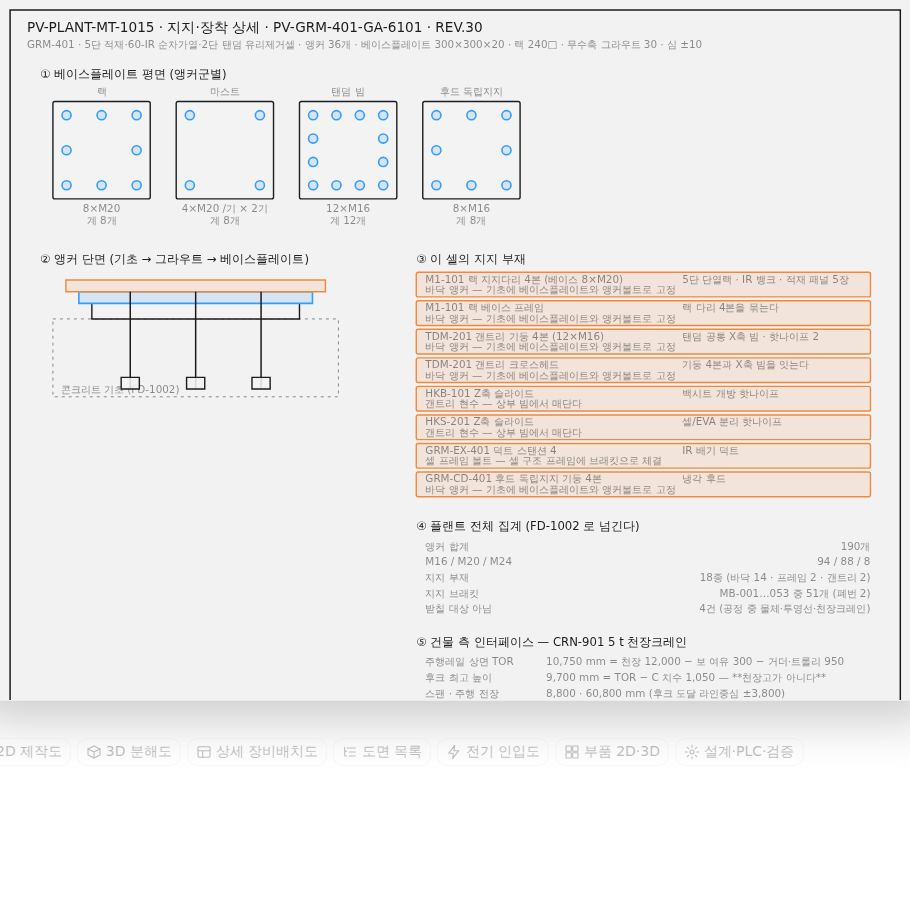
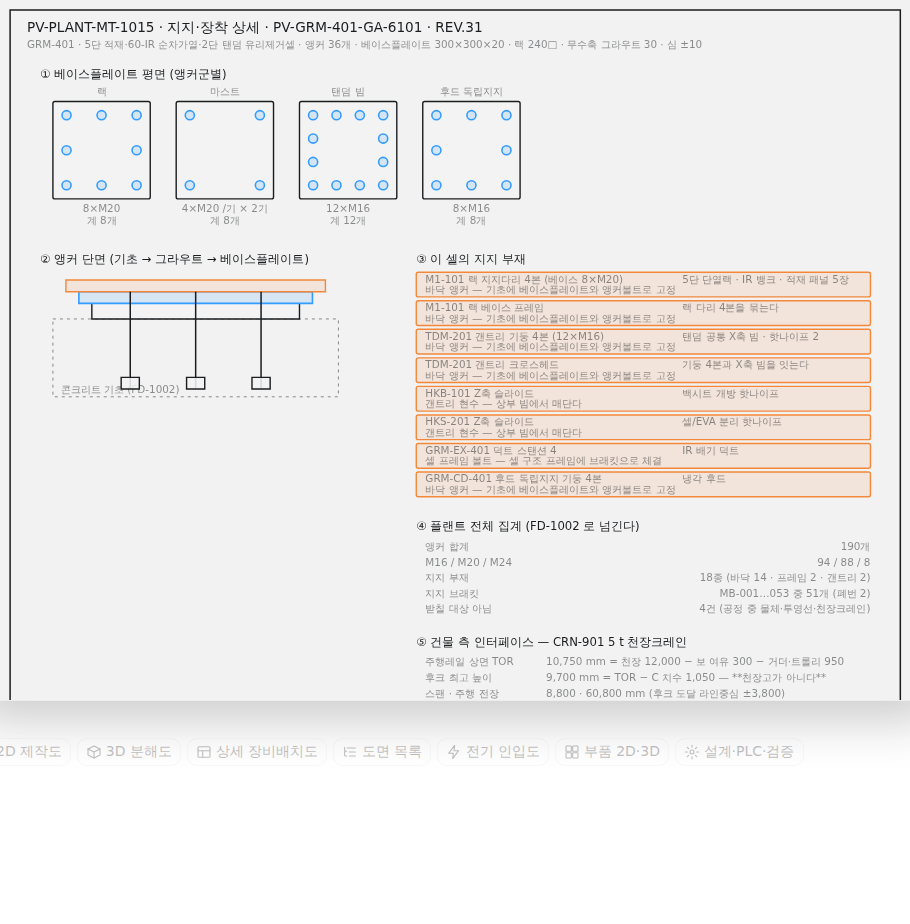
출입구가 투입방향임을 확인받는다 (REV.31)
발주처 확인 — **출입구는 투입방향(상류 AFU)이고 건축이 이미 그렇게 설계돼
있다.** REV.30 에서 미루어 잡았던 값이 맞았다.

추정이 맞았지만 **추정이었다는 사실**을 남긴다. 설치 순서 전체가 이 한
값에서 나오기 때문이다 — 문이 반대쪽이면 순서도 통째로 뒤집히고,
`install_order(entry_zone=…)` 이 실제로 그렇게 동작한다. 근거도 바뀐다:
전에는 `mounting.MOUNTING_OF["afu"]` 의 "지게차 진입측" 에서 미룬 것이었고,
이제는 건축 설계가 근거다.

도면목록의 `PV-PLANT-GA-1001` 확인 항목에서 출입구를 뺐다 — 남은 것은
건축 grid·기둥이다.

**반입 개구 하한을 내보낸다.** `entry_opening_min_mm()` = (2,900, 5,150).
치수를 정하는 값이 아니라 하한이고, 도면에도 그렇게 적는다 — 높이를 정하는
VG-101 은 보 3.8 m + 독립 기둥 2본이라 통짜로 올 물건이 아니다. 무엇이
통짜로 오고 무엇이 안에서 조립되는지는 분할 반입 계획이고 그것은 벤더
몫이라 여기서 정하지 않는다. "통짜로 온다면 이만큼은 필요하다" 만 낸다.

장착 시트 ⑤ 에 출입구 확인 표시와 개구 하한 행을 넣었다. 시트가 세로로
1,398 → 1,422 로 자라고 가로는 규약 1,400 을 유지한다 — 캡션 y 는 REV.30
에서 행 수 파생으로 고쳐 놨으므로 이번엔 저절로 따라왔다.

시험 592건 · 장착 8셀 글자 겹침 0 · 시트 밖 0 · 페이지 오류 0.

Claude-Session: https://claude.ai/code/session_01RvzXZyrs9FVy575zddpnPN

diff --git a/docs/drawings/pv-preprocess-plant.html b/docs/drawings/pv-preprocess-plant.html
@@ -2868,7 +2868,7 @@ html>body{padding:0}</style>
   };
 
   var register = [
-    ['PV-PLANT-GA-1001', '전체 플랜트 평면·종단면·좌표표', '2D GA', '앱 반영', '건축 grid·기둥·출입구'],
+    ['PV-PLANT-GA-1001', '전체 플랜트 평면·종단면·좌표표', '2D GA', '앱 반영', '건축 grid·기둥 (출입구는 투입방향 확정)'],
     ['PV-PLANT-FD-1002', '기초·앵커·바닥하중', '2D 기초', '기본설계', 'slab·pull-out·동하중'],
     ['PV-PLANT-UT-1003', '전기·공압·진공·집진', '2D Utility', '기본설계', '인입점·압손·차단기'],
     ['PV-PLANT-SF-1004', '가드·문·정지포락선', '2D Safety', '기본설계', 'PLr·PFHd·정지시간'],
@@ -2965,7 +2965,7 @@ html>body{padding:0}</style>
     return [left, top, width, height].map(Math.round).join(' ');
   }
 
-  var DRAWING_REVISION = 'REV.30';
+  var DRAWING_REVISION = 'REV.31';
   // 뷰별 축 선택. PART_AXIS 는 part.at/part.size 의 [X, 상하, 깊이] 기준,
   // ENVELOPE_AXIS 는 station.envelope 의 [L, W, H] 기준 — 두 배열의 축 순서가 다르다.
   var PART_AXIS = { plan: [0, 2], front: [0, 1], side: [2, 1] };
@@ -3705,7 +3705,7 @@ html>body{padding:0}</style>
     ['VS-101A/B-FUSED 고정면 스캔선', '레이저 투영선이라 물체가 아니다']
   ];
   var KINEMATICS = {panelMm: [2500, 1400], flipAxisMm: 3430, transferMm: 2290, ringBoreMm: 1620, ringBottomMm: 2440, underRingMm: 112, overCarriageMm: 116, boreClearMm: 109, cageAxialMm: 40, jawStrokeMm: 187.5, jawOpenClearMm: 70, afrClampKn: 12.0, afrPortalZMm: 1450, afrPortalAnchors: 16};
-  var CRANE = {capacityT: 5.0, ceilingMm: 12000, railTopMm: 10750, hookHeightMm: 9700, spanMm: 8800, runwayMm: 60800, hookReachMm: 3800, governing: "BFC 반전 카세트 (Bay 1식)", governingKg: 2500, hookLoadKg: 2650, maxLiftKg: 4850, capacityMargin: 1.89, tallest: "VG-101 독립 방진 비전보 조립체", requiredHookMm: 8370, hookMarginMm: 1330, installOrder: ["grm", "buffer", "post", "afr", "gate", "jbr", "robot", "afu"], entryZone: "afu", haulWidthMm: 7100, widestModuleMm: 2900, installedKw: 6.7, demandKw: 1.34};
+  var CRANE = {capacityT: 5.0, ceilingMm: 12000, railTopMm: 10750, hookHeightMm: 9700, spanMm: 8800, runwayMm: 60800, hookReachMm: 3800, governing: "BFC 반전 카세트 (Bay 1식)", governingKg: 2500, hookLoadKg: 2650, maxLiftKg: 4850, capacityMargin: 1.89, tallest: "VG-101 독립 방진 비전보 조립체", requiredHookMm: 8370, hookMarginMm: 1330, installOrder: ["grm", "buffer", "post", "afr", "gate", "jbr", "robot", "afu"], entryZone: "afu", haulWidthMm: 7100, widestModuleMm: 2900, entryOpeningMinMm: [2900, 5150], installedKw: 6.7, demandKw: 1.34};
   var MOUNT_SUMMARY = { stations: 8, anchors: 190, m16: 94, m20: 88, m24: 8, members: 18, brackets: 51, series: 53, withdrawn: 2, floor: 14, frame: 2, gantry: 2, exempt: 4 };
   var SL_CHAIN_ROWS = INCOMER.tapsSite ? (INCOMER.tapLowVoltage ? 4 : 5) : (INCOMER.highVoltage ? 6 : 4);
   // 분기 주회로 길이는 부지 실측 대기다. 모를 때 0.0 m 로 찍으면 도면이 거짓말을 한다.
@@ -4743,8 +4743,12 @@ html>body{padding:0}</style>
      // 그만큼 길이 사라지므로 문에서 먼 쪽부터 소비한다.
      ['반입 동선', '장비 밴드 ' + n(CRANE.haulWidthMm) + ' (최대 모듈 ' + n(CRANE.widestModuleMm)
        + ') — 통로 유효 ' + n(AISLE_CLEAR_MM) + ' 로는 못 지난다'],
-     ['설치 순서', CRANE.installOrder.join(' → ') + '  (공정 흐름의 반대 · 문은 '
-       + CRANE.entryZone + ' 측)']];
+     ['설치 순서', CRANE.installOrder.join(' → ') + '  (공정 흐름의 반대 · 출입구는 투입방향 '
+       + CRANE.entryZone + ' 측 — 발주처 확인)'],
+     // 개구 치수를 정하는 값이 아니라 하한이다. 무엇이 통짜로 오는지는
+     // 분할 반입 계획에 달렸고 그것은 벤더 몫이라 여기서 정하지 않는다.
+     ['반입 개구 (하한)', '통짜 반입 가정 시 폭 ' + n(CRANE.entryOpeningMinMm[0]) + ' × 높이 '
+       + n(CRANE.entryOpeningMinMm[1]) + ' — 분할 반입 계획에 따라 줄어든다']];
     sumRows5.forEach(function (r, i) {
       var y = cy + 30 + i * 24;
       out.push(text(mx + 14, y, r[0], 'pv-fab-small'));

diff --git a/src/pv_preprocess/crane.py b/src/pv_preprocess/crane.py
@@ -125,8 +125,13 @@ RUNWAY_MM = 60_800
 
 
 # ── 반입 동선 ────────────────────────────────────────────────────────────
-#: 반입 진입측 존. 지게차 진입측과 같은 곳이다 —
-#: `mounting.MOUNTING_OF["afu"]` 가 앵커를 여유 있게 잡는 근거와 같은 사실.
+#: 반입 진입측 존. **발주처 확인 — 출입구는 투입방향(상류 AFU)이고 건축이
+#: 이미 그렇게 설계돼 있다.** 지게차 진입측과 같은 곳이라
+#: `mounting.MOUNTING_OF["afu"]` 가 앵커를 여유 있게 잡는 근거와도 맞는다.
+#:
+#: 확인 전에는 그 앵커 근거에서 미루어 잡은 값이었다. 추정이 맞았지만
+#: 추정이었다는 사실이 중요하다 — 설치 순서 전체가 여기서 나오므로,
+#: 문이 반대쪽이면 순서도 통째로 뒤집힌다(`install_order` 가 그렇게 만든다).
 ENTRY_ZONE = "afu"
 
 
@@ -155,6 +160,17 @@ def widest_module_mm() -> int:
     셀 외형에서 파생시킨다 — 손으로 적으면 셀이 넓어져도 안 따라온다.
     """
     return layout.STATIONS[governing_lift().station].envelope[1]
+
+
+def entry_opening_min_mm() -> tuple[int, int]:
+    """반입 개구가 최소한 통과시켜야 하는 (폭, 높이) mm.
+
+    **개구 치수를 정하는 값이 아니라 하한이다.** 실제 치수는 분할 반입
+    계획에 달렸다 — 무엇이 통짜로 오고 무엇이 안에서 조립되는지는 벤더
+    몫이라 여기서 정하지 않는다. "통짜로 온다면 이만큼은 필요하다" 만
+    내보내고, 운반대 높이·리깅 여유는 시공사가 얹는다.
+    """
+    return widest_module_mm(), max(lift.height_mm for lift in LIFTS)
 
 
 def aisle_can_haul(aisle_clear_mm: int) -> bool:
@@ -352,6 +368,7 @@ def summary() -> dict[str, object]:
         "entryZone": ENTRY_ZONE,
         "haulWidthMm": haul_width_mm(),
         "widestModuleMm": widest_module_mm(),
+        "entryOpeningMinMm": list(entry_opening_min_mm()),
         "installedKw": installed_kw(),
         "demandKw": demand_kw(),
     }

diff --git a/tests/test_pv_preprocess.py b/tests/test_pv_preprocess.py
@@ -3023,7 +3023,10 @@ class TestCrane(unittest.TestCase):
         사람이 다니는 길이고, 반입 동선은 폭 7,100 의 장비 밴드다.
         """
         flow = [zone.key for zone in layout.build_zones()]
-        self.assertEqual(flow[0], crane.ENTRY_ZONE, "문은 공정 상류에 있다")
+        # 출입구가 투입방향(상류)이라는 것은 발주처 확인값이다 — 건축이 이미
+        # 그렇게 설계돼 있다. 확인 전에는 지게차 진입측에서 미루어 잡았다.
+        self.assertEqual(crane.ENTRY_ZONE, "afu")
+        self.assertEqual(flow[0], crane.ENTRY_ZONE, "출입구는 공정 상류에 있다")
         self.assertEqual(crane.install_order(), tuple(reversed(flow)))
         self.assertEqual(crane.install_order()[0], "grm", "가장 먼 쪽을 먼저")
         self.assertEqual(crane.install_order()[-1], crane.ENTRY_ZONE, "문 쪽이 마지막")
@@ -3040,6 +3043,15 @@ class TestCrane(unittest.TestCase):
         self.assertFalse(crane.aisle_can_haul(wiring.aisle_clear_width_mm()),
                          "유효 900 통로로 2,900 모듈이 지나갈 수 없다")
         self.assertTrue(crane.aisle_can_haul(3_000), "경계가 실제로 작동하는지")
+        # 개구 하한은 **치수가 아니라 하한**이다. 높이를 정하는 VG-101 은
+        # 보 + 기둥 2본이라 통짜로 올 물건이 아니고, 무엇이 통짜로 오는지는
+        # 분할 반입 계획(벤더 몫)에 달렸다 — 그 조건을 도면이 같이 적는다.
+        self.assertEqual(crane.entry_opening_min_mm(), (2_900, 5_150))
+        self.assertEqual(crane.entry_opening_min_mm()[0], crane.widest_module_mm())
+        self.assertEqual(crane.entry_opening_min_mm()[1],
+                         max(lift.height_mm for lift in crane.LIFTS))
+        self.assertIn("통짜 반입 가정 시 폭", self.html)
+        self.assertIn("분할 반입 계획에 따라 줄어든다", self.html)
         # 종전의 틀린 문장이 되살아나면 실패한다
         source = (pathlib.Path(__file__).resolve().parents[1]
                   / "src" / "pv_preprocess" / "crane.py").read_text(encoding="utf-8")

diff --git a/README.md b/README.md
@@ -140,7 +140,7 @@ flux 상사로 스케일업하면 수력학적 조건이 보존되므로 실증 
 - **CRN-901 5 t 천장크레인** (천장고 12,000 확정) — 후크가 올라가는 높이는 천장고가 아니다. 천장 12,000 − 보 하면 여유 300 − 거더·트롤리 950 = 주행레일 상면 **10,750**, 여기서 C 치수 1,050 을 빼야 후크 최고 **9,700** 이 나온다. 인양물 위로 슬링 **2,520**(폭 2,900 을 60° 로 매단 기하값)과 후크 블록 500 이 더 붙으므로 4,500 짜리 BFC 반전 카세트를 들려면 후크가 7,720 까지 올라가야 한다
 - 용량은 최중량 단품이 정한다 — BFC 반전 카세트 **2,500 kg 이상**(발주처 확인). 후크에 걸리는 것은 물건만이 아니라 인양 부속(슬링·샤클·스프레더) 150 kg 이 더해진 **2,650 kg** 이라 여유 **1.89배**이고, **물건 기준 상한은 4,850 kg** 이다. 후크 높이는 VG-101 비전보(5,150)가 정하고 여유 **1,330 mm** 다
 - 스팬 **8,800** 은 고른 값이 아니라 장비 밴드 7,100 을 후크가 끝까지 덮어야 나오는 값이다 — 트롤리 끝단 접근 600 을 빼면 라인 중심에서 ±3,800, 밴드 반폭 3,550 을 250 여유로 넘는다. 주행 **60,800** 은 전장 58,800 에 양끝 1,000 씩, 주행 접근 700 을 빼도 후크가 양끝 밖 300 까지 나간다
-- **들어 올린 채로 설치된 설비 위를 넘지 않는다** — 넘으려면 최고 고정점 5,150 + 통과 300 + 물건 + 슬링 + 후크블록 = **12,970** 이라 12 m 천장에 안 들어간다. 그래서 **하류(GRM)부터 세워 상류(AFU)로 온다**(발주처 확인) — 공정 흐름의 반대다. 반입 동선이 곧 **아직 안 세운 장비 밴드**(폭 7,100)라서, 세우는 순간 그만큼 길이 사라지기 때문이다. 통로(유효 900)는 사람이 다니는 길이지 반입 동선이 아니다 — 최대 모듈인 반전 카세트가 폭 **2,900** 이다. 크레인 사양이 아니라 시공 순서로 푸는 문제다
+- **들어 올린 채로 설치된 설비 위를 넘지 않는다** — 넘으려면 최고 고정점 5,150 + 통과 300 + 물건 + 슬링 + 후크블록 = **12,970** 이라 12 m 천장에 안 들어간다. 그래서 **하류(GRM)부터 세워 상류(AFU)로 온다**(발주처 확인) — 공정 흐름의 반대다. **출입구는 투입방향(상류 AFU)** 이고 건축이 이미 그렇게 설계돼 있다(발주처 확인). 반입 동선이 곧 **아직 안 세운 장비 밴드**(폭 7,100)라서, 세우는 순간 그만큼 길이 사라지기 때문이다. 통로(유효 900)는 사람이 다니는 길이지 반입 동선이 아니다 — 최대 모듈인 반전 카세트가 폭 **2,900** 이다. 크레인 사양이 아니라 시공 순서로 푸는 문제다
 - 주행거더를 받치는 것은 **건물 철골**이라 이 플랜트가 기둥을 세우지 않는다(`mounting.UNSUPPORTED_BY_DESIGN`). 대신 건물 측 요구값(TOR 10,750 · 스팬 8,800 · 주행 반력)을 도면 장착 시트가 숫자로 내보낸다
 - 급전 F15 LP-CRANE 6.7 kW · 수용률 0.20 · 페스툰은 **주행 중앙**에서 먹인다 — 끝에서 먹이면 트레일링 케이블과 주행 도체 전압강하가 각각 두 배다. 크레인 발열은 환기 피크에 더하지 않는다(`electrical.NON_COINCIDENT_PANELS`) — 운전 중 인양이 금지라 공정과 같은 시각에 걸리지 않는다
 - 2D 시트가 프레임 안에 드는지, 두 번 렌더해도 같은 프레임인지는 `node tools/check_sheet_fit.mjs docs/drawings/pv-preprocess-plant.html` 이 본다. `fitSheet` 이 내용에 맞춰 viewBox 를 키우는데, 넓어진 viewBox 가 축척을 줄이고 줄어든 축척이 글자 길이를 또 바꾸는 되먹임이 있다 — REV.27 의 스마트 시트는 프레임이 1,502 ↔ 1,581 을 오갔다. 긴 글에 `data-fit` 을 주면 먼저 잘려서 되먹임이 시작되지 않는다
